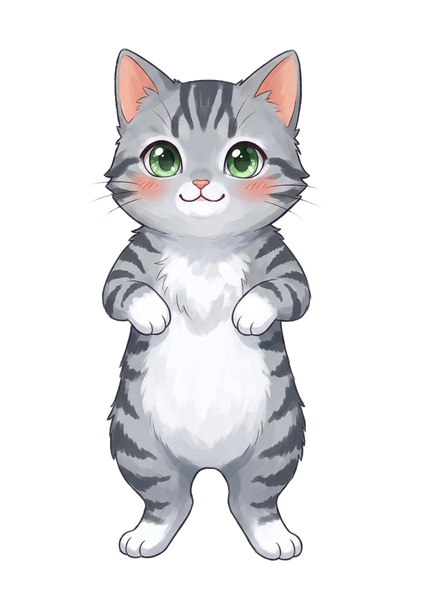
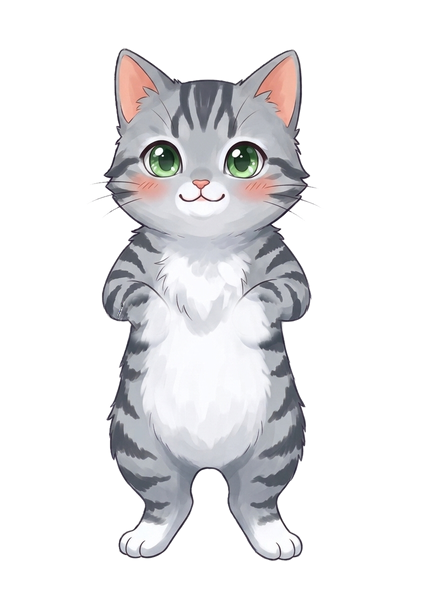
옷·소품 18종 꾸미기, 무대 콘셉트 의상, 턱시도·고등어·샴 가슴 앞발 지우기, 6명부터 앞줄 4명

Changed region(s): [[0.25, 0.48, 0.4062, 0.6], [0.5, 0.48, 0.625, 0.57]]

diff --git a/index.html b/index.html
@@ -225,11 +225,20 @@ input[type=text]{width:100%;border:2px solid var(--gold);background:#fffdf6;bord
 .winfx{position:absolute;inset:3px;border-radius:12px;pointer-events:none;background:repeating-conic-gradient(from 0deg at 50% 40%,rgba(255,230,140,.35) 0 8deg,transparent 8deg 22deg);mix-blend-mode:screen;animation:winspin 12s linear infinite}
 @keyframes winspin{to{transform:rotate(0)}}
 .st3host canvas.st3d{position:absolute;left:3px;right:3px;top:3px;bottom:3px;width:calc(100% - 6px);height:calc(100% - 6px);border-radius:12px}
-.thumbrow{position:absolute;left:0;right:0;bottom:6%;display:flex;justify-content:center;gap:2px;height:62%}
-.thumbrow img{height:100%;max-width:19%;object-fit:contain;filter:drop-shadow(0 2px 3px rgba(0,0,0,.35))}
+.thumbrow{position:absolute;left:2%;right:2%;bottom:4%;display:flex;justify-content:center;height:62%}
+.thumbrow.back{bottom:30%;height:46%;left:12%;right:12%}
+.thumbrow img{height:100%;min-width:0;flex:0 1 auto;object-fit:contain;filter:drop-shadow(0 2px 3px rgba(0,0,0,.35))}
+.thumbrow.two{height:54%}
 .avbox img.a3{display:block;width:100%;height:100%;object-fit:cover;object-position:50% 20%}
 .avbox.full img.a3{object-fit:contain;object-position:50% 100%}
 .avbox img.a3{background:transparent}
+.doll{position:relative;display:block;height:100%;aspect-ratio:448/600;margin:0 auto}
+.doll img.a3{object-fit:fill}
+.doll .witem{position:absolute;display:block;pointer-events:none}
+.wearpick{display:flex;flex-wrap:wrap;gap:6px;margin:6px 0 10px}
+.wearpick button{display:flex;flex-direction:column;align-items:center;gap:2px;width:68px;padding:4px 2px;border:2px solid #f0d8e4;border-radius:12px;background:#fff;font:inherit;font-size:11px;color:inherit;cursor:pointer}
+.wearpick button.on{border-color:var(--pink,#f06292);background:#fff0f6}
+.wearpick img{width:44px;height:44px;object-fit:contain}
 .su-row{display:flex;align-items:center;gap:6px;margin:6px 0}
 .su-row img{width:44px;height:44px;border-radius:50%;object-fit:cover;border:2px solid var(--gold);background:#fff}
 .su-row input{flex:1;min-width:0}
@@ -1264,7 +1273,26 @@ document.body.insertAdjacentHTML('afterbegin', puppetDefs());
 const blinkDelay = m => `animation-delay:${-((m.hue || 0) % 46) / 10}s`;
 // ===== 2D 고양이 아이돌 (그림 AI 그림 + 휘는 메시 애니메이션, cat2d.js) =====
 const CATS = [['cheese', '치즈'], ['tuxedo', '턱시도'], ['calico', '삼색'], ['black', '까망'], ['white', '하양'], ['tabby', '고등어'], ['siamese', '샴'], ['gray', '러블']];
-const CATV = '?v=7';
+const CATV = '?v=10';
+// 옷·소품 (art/cat/item-*.png, 좌표는 items.json). 무대에서는 콘셉트 의상, 평소엔 멤버별로 고른 옷
+const WEAR_CLOTH = [[null, '없음'], ['hoodie', '후드 조끼'], ['sport', '운동복'], ['dress', '프릴 원피스'], ['sailor', '세일러'], ['leather', '가죽 조끼'], ['cape', '별빛 망토'], ['polka', '물방울 원피스'], ['jersey', '힙합 저지'], ['ballad', '흰 드레스'], ['reddress', '빨간 드레스']];
+const WEAR_ACC = [[null, '없음'], ['ribbon', '리본'], ['crown', '왕관'], ['headset', '헤드셋 마이크'], ['beret', '베레모'], ['cap', '야구 모자'], ['sunglasses', '선글라스'], ['flower', '꽃 화관'], ['bowtie', '나비넥타이']];
+const CONCEPT_WEAR = { fresh: 'sailor', crush: 'leather', cute: 'dress', dream: 'cape', retro: 'polka', hiphop: 'jersey', ballad: 'ballad', sexy: 'reddress' };
+const STAGE_KINDS = ['stage', 'concert', 'festival', 'yearend', 'win'];
+let ITEMINFO = {};
+fetch('art/cat/items.json' + CATV).then(r => r.json()).then(j => { ITEMINFO = j; if (S) render(); }).catch(() => {});
+const wearOf = m => m.wear || (m.wear = { cloth: null, acc: null });
+const curConcept = () => S && S.promo ? S.promo.concept : (S && S.albums && S.albums.length ? S.albums[S.albums.length - 1].concept : null);
+function wearFor(m, kind) {   // 이 장면에서 입을 옷·소품
+  const w = wearOf(m), out = [];
+  let cloth = w.cloth;
+  if (STAGE_KINDS.includes(kind) && curConcept()) cloth = CONCEPT_WEAR[curConcept()] || cloth;
+  else if (!cloth && kind === 'practice') cloth = 'sport';
+  else if (!cloth && kind === 'dorm') cloth = 'hoodie';
+  if (cloth) out.push(cloth); if (w.acc) out.push(w.acc);
+  return out.filter(k => ITEMINFO[k]);
+}
+const itemImgs = list => list.map(k => { const it = ITEMINFO[k]; return it ? `<img class="witem" src="art/cat/item-${k}.png${CATV}" style="left:${it.x / 4.48}%;top:${it.y / 6}%;width:${it.w / 4.48}%;height:${it.h / 6}%" alt="">` : ''; }).join('');
 const catOf = m => { if (!m.cat || !CATS.some(c => c[0] === m.cat)) { const i = Math.max(0, S ? S.members.indexOf(m) : 0); m.cat = CATS[i % CATS.length][0]; } return m.cat; };
 const catImg = (coat, kind) => `art/cat/${coat}-${kind}.png${CATV}`;
 let PIXIP = null;
@@ -1293,9 +1321,10 @@ async function mount2d(host, members, kind) {
     CATAPP.stage.removeChildren().forEach(o => o.destroy({ children: true, texture: false, baseTexture: false })); CATS_ON = [];   // 지난주 무대는 지워서 메모리가 쌓이지 않게
     const list = members.slice(0, 7), n = list.length;
     await Promise.all(list.map(m => { const k = catOf(m); return CATDATA[k] || (CATDATA[k] = CAT2.loadCat(PIXI, k)); }));   // 한꺼번에 불러오기
+    const ITEMS2 = await CAT2.loadItems(PIXI).catch(() => null);
     LG('data'); if (my !== MOUNT_ID) return;        // 그 사이 다음 주로 넘어갔으면 그만
-    // 5명까지 한 줄, 6명부터 두 줄 (앞줄이 더 많게: 6명 3+3, 7명 4+3). 뒷줄은 작고 위쪽, 앞줄 사이사이에
-    const two = n >= 6, nf = two ? Math.ceil(n / 2) : n, nb = n - nf;
+    // 5명까지 한 줄, 6명부터 두 줄 (앞줄 4명, 뒷줄 나머지). 뒷줄은 작고 위쪽, 앞줄 사이사이에
+    const two = n >= 6, nf = two ? 4 : n, nb = n - nf;     // 6명부터 두 줄: 앞줄 4명, 뒷줄 나머지
     const rows = [{ k: nb, sc: .74, y: h * (nb === nf ? .6 : .66) }, { k: nf, sc: 1, y: h * .99 }].filter(r => r.k);
     const first = await CATDATA[catOf(list[0])], cw = first.info.w, ch = first.info.h;
     const base = Math.min((two ? h * .66 : h * .8) / ch, w * .96 / (nf * cw * .78));     // 앞줄이 화면 안에 다 들어가게
@@ -1304,7 +1333,7 @@ async function mount2d(host, members, kind) {
       const sc = base * r.sc, gap = two ? w * .94 / nf : Math.min(w * .96 / r.k, cw * sc * .82);
       for (let j = 0; j < r.k; j++, idx++) {
         const m = r === rows[rows.length - 1] && two ? list[j] : two ? list[nf + j] : list[j];
-        const c = CAT2.makeCat(PIXI, await CATDATA[catOf(m)], { phase: idx * .37 });
+        const c = CAT2.makeCat(PIXI, await CATDATA[catOf(m)], { phase: idx * .37, items: ITEMS2, wear: wearFor(m, kind) });
         c.root.scale.set(sc); c.root.x = w / 2 + (j - (r.k - 1) / 2) * gap; c.root.baseY = r.y; c.root.y = r.y;
         c.setMode(MODE2[kind] || 'idle'); CATAPP.stage.addChild(c.root); CATS_ON.push(c);
       }
@@ -1375,7 +1404,7 @@ async function mount3d(host, members, kind) {
 function avatar(m, size = 44, full, outfit) {
   if (m && m.stats && S && !m.gender) {
     const b = m.busy && m.busy.type, off = b === 'pause' || b === 'sick';
-    return `<span class="avbox${full ? ' full' : ''}${off ? ' off' : ''}" style="width:${size}px;height:${full ? Math.round(size * 1.35) : size}px;--h:${m.hue || 0}"><img class="a3" src="${catImg(catOf(m), full ? 'full' : 'face')}" alt=""></span>`;
+    return `<span class="avbox${full ? ' full' : ''}${off ? ' off' : ''}" style="width:${size}px;height:${full ? Math.round(size * 1.35) : size}px;--h:${m.hue || 0}">${full ? `<span class="doll"><img class="a3" src="${catImg(catOf(m), 'full')}" alt="">${itemImgs(wearFor(m, ''))}</span>` : `<img class="a3" src="${catImg(catOf(m), 'face')}" alt="">`}</span>`;
   }
   {
     const b = m.busy && m.busy.type, off = b === 'pause' || b === 'sick';
@@ -1672,7 +1701,8 @@ function fillNames(keep) {
 <input type="text" value="${esc(nm)}" maxlength="10" aria-label="이름"><select aria-label="나이">${Array.from({ length: 11 }, (_, a) => a + 14).map(a => `<option value="${a}"${a === ag ? ' selected' : ''}>${a}세</option>`).join('')}</select></div>`; }).join('');
   const demo = Array.from({ length: SU.count }, (_, i) => ({ hue: i * 55, look: { ch: SU.chars[i], daily: 'basic', exp: 'normal' }, gender: gg, stats: { visual: 0 }, fatigue: 0, busy: null }));
   const keepS = S; S = { gender: SU.gender, members: [], albums: [], promo: null, ga: 'none' };
-  $('#suScene').innerHTML = `<div class="st3host">${bgHTML('stage')}<div class="thumbrow">${Array.from({ length: SU.count }, (_, i) => `<img src="${catImg(CATS[(SU.chars[i] - 1) % CATS.length][0], 'full')}" alt="">`).join('')}</div></div>`; S = keepS;
+  $('#suScene').innerHTML = `<div class="st3host">${bgHTML('stage')}${(() => { const im = i => `<img src="${catImg(CATS[(SU.chars[i] - 1) % CATS.length][0], 'full')}" alt="" style="max-width:${100 / Math.min(SU.count, 4) * 1.35}%;margin:0 -${SU.count > 3 ? 3 : 0}%">`, all = Array.from({ length: SU.count }, (_, i) => i);
+    return SU.count >= 6 ? `<div class="thumbrow back">${all.slice(4).map(im).join('')}</div><div class="thumbrow two">${all.slice(0, 4).map(im).join('')}</div>` : `<div class="thumbrow">${all.map(im).join('')}</div>`; })()}</div>`; S = keepS;
 }
 function memberDetail(id) {
   const m = S.members.find(x => x.id === id); if (!m) return;
@@ -1701,7 +1731,9 @@ ${m.ad ? `<div>📢 광고 ${esc(m.ad.brand)} · ${m.ad.left}주 남음</div>` :
 ${warn.length ? `<p class="neg" style="font-size:13px">${warn.map(esc).join('<br>')}</p>` : ''}
 <h3>꾸미기</h3>
 <p class="muted center">🐾 털 무늬: ${(CATS.find(c => c[0] === catOf(m)) || ['', ''])[1]} (처음 정한 고양이는 바뀌지 않아요)</p>
-<p class="muted">옷·소품 꾸미기는 준비 중이에요.</p>
+<b>👗 평소 옷</b><div class="wearpick">${WEAR_CLOTH.filter(([k]) => !k || ITEMINFO[k]).map(([k, l]) => `<button class="${wearOf(m).cloth === k ? 'on' : ''}" data-wear="${m.id}:cloth:${k || ''}">${k ? `<img src="art/cat/item-${k}.png${CATV}" alt="">` : '<span style="font-size:30px;line-height:44px">✖</span>'}${l}</button>`).join('')}</div>
+<b>🎀 소품</b><div class="wearpick">${WEAR_ACC.filter(([k]) => !k || ITEMINFO[k]).map(([k, l]) => `<button class="${wearOf(m).acc === k ? 'on' : ''}" data-wear="${m.id}:acc:${k || ''}">${k ? `<img src="art/cat/item-${k}.png${CATV}" alt="">` : '<span style="font-size:30px;line-height:44px">✖</span>'}${l}</button>`).join('')}</div>
+<p class="muted" style="font-size:12px">무대(음악방송·콘서트·축제·시상식)에서는 콘셉트 의상으로 자동으로 갈아입어요. 소품은 무대에서도 그대로예요. 평소 옷을 안 고르면 연습 땐 운동복, 숙소에선 후드 조끼를 입어요.</p>
 <button class="btn" data-act="close" style="width:100%;margin-top:8px">닫기</button>`);
 }
 function customize(spec) {
@@ -1806,6 +1838,7 @@ document.addEventListener('click', e => {
   if (d.tab) { closeDlg(); TAB = d.tab; render(); window.scrollTo(0, 0); return; }
   if (d.member) return memberDetail(d.member);
   if (d.cust) return customize(d.cust);
+  if (d.wear) { const [id, f, k] = d.wear.split(':'), m = S.members.find(x => x.id === id); if (m) { wearOf(m)[f] = k || null; save(); render(); const top = $('#dlgBody').scrollTop; memberDetail(id); $('#dlgBody').scrollTop = top; } return; }
   if (d.rcb) { RC.bonus = +d.rcb; return recruitDlg(); }
   if (d.dorm) return moveDorm(d.dorm);
   if (d.such) { const [i, v] = d.such.split(':').map(Number), n = CATS.length; SU.chars[i] = ((SU.chars[i] - 1 + v + n) % n) + 1; return fillNames(true); }

diff --git a/cat-live.html b/cat-live.html
@@ -25,7 +25,7 @@ p{color:#8a6f7a;font-size:13px;line-height:1.5}
 <p>그림 AI로 그린 고양이를 몸통·팔·꼬리·표정으로 나누고, 그림을 <b>휘고 늘리는</b> 방식(Live2D·Spine과 같은 원리)으로 움직여요. 팔과 꼬리는 붙은 곳은 고정되고 끝으로 갈수록 휘어서 이음새가 없어요. 머리는 목 부분이 부드럽게 늘어나며 기울고, 숨 쉴 때 몸이 살짝 부풀어요.</p>
 </main>
 <script type="module">
-import { loadCat, makeCat, loadItems } from './cat2d.js?v=9';
+import { loadCat, makeCat, loadItems } from './cat2d.js?v=10';
 const MODES = { idle: '대기', dance: '춤', cheer: '만세(1위)', wave: '손 흔들기', sleep: '졸기', sad: '시무룩' };
 const cv = document.getElementById('st');
 const app = new PIXI.Application({ view: cv, backgroundAlpha: 0, antialias: true, width: cv.clientWidth, height: cv.clientHeight, resolution: Math.min(2, devicePixelRatio || 1), autoDensity: true });

diff --git a/cat2d.js b/cat2d.js
@@ -1,6 +1,6 @@
 // ===== 2D 고양이 아이돌 (그림을 휘고 늘리는 메시 애니메이션, PixiJS) =====
 // 부위 그림(몸통·팔·꼬리·표정)을 격자 모양 메시로 붙이고, 꼭짓점을 움직여서 이음새 없이 휘게 만듦.
-const ART = new URL('art/cat/', import.meta.url).href, VER = '?v=9';   // 고치면 숫자 올리기 (브라우저 저장본 대신 새 파일)
+const ART = new URL('art/cat/', import.meta.url).href, VER = '?v=10';   // 고치면 숫자 올리기 (브라우저 저장본 대신 새 파일)
 const sstep = (a, b, x) => { const t = Math.max(0, Math.min(1, (x - a) / (b - a))); return t * t * (3 - 2 * t); };
 const rot = (x, y, cx, cy, a) => { const c = Math.cos(a), s = Math.sin(a); return [cx + (x - cx) * c - (y - cy) * s, cy + (x - cx) * s + (y - cy) * c]; };
 

diff --git a/sw.js b/sw.js
@@ -1,5 +1,5 @@
 // 인터넷이 없어도 열리도록 앱 파일을 저장해 둠. 앱을 고치면 VERSION 숫자를 올릴 것.
-const VERSION = "v16";
+const VERSION = "v17";
 const FILES = ["./", "index.html", "manifest.webmanifest", "icon-180.png", "icon-192.png", "icon-512.png"];
 self.addEventListener("install", e => { e.waitUntil(caches.open(VERSION).then(c => c.addAll(FILES))); self.skipWaiting(); });
 self.addEventListener("activate", e => { e.waitUntil(caches.keys().then(ks => Promise.all(ks.filter(k => k !== VERSION).map(k => caches.delete(k))))); self.clients.claim(); });
